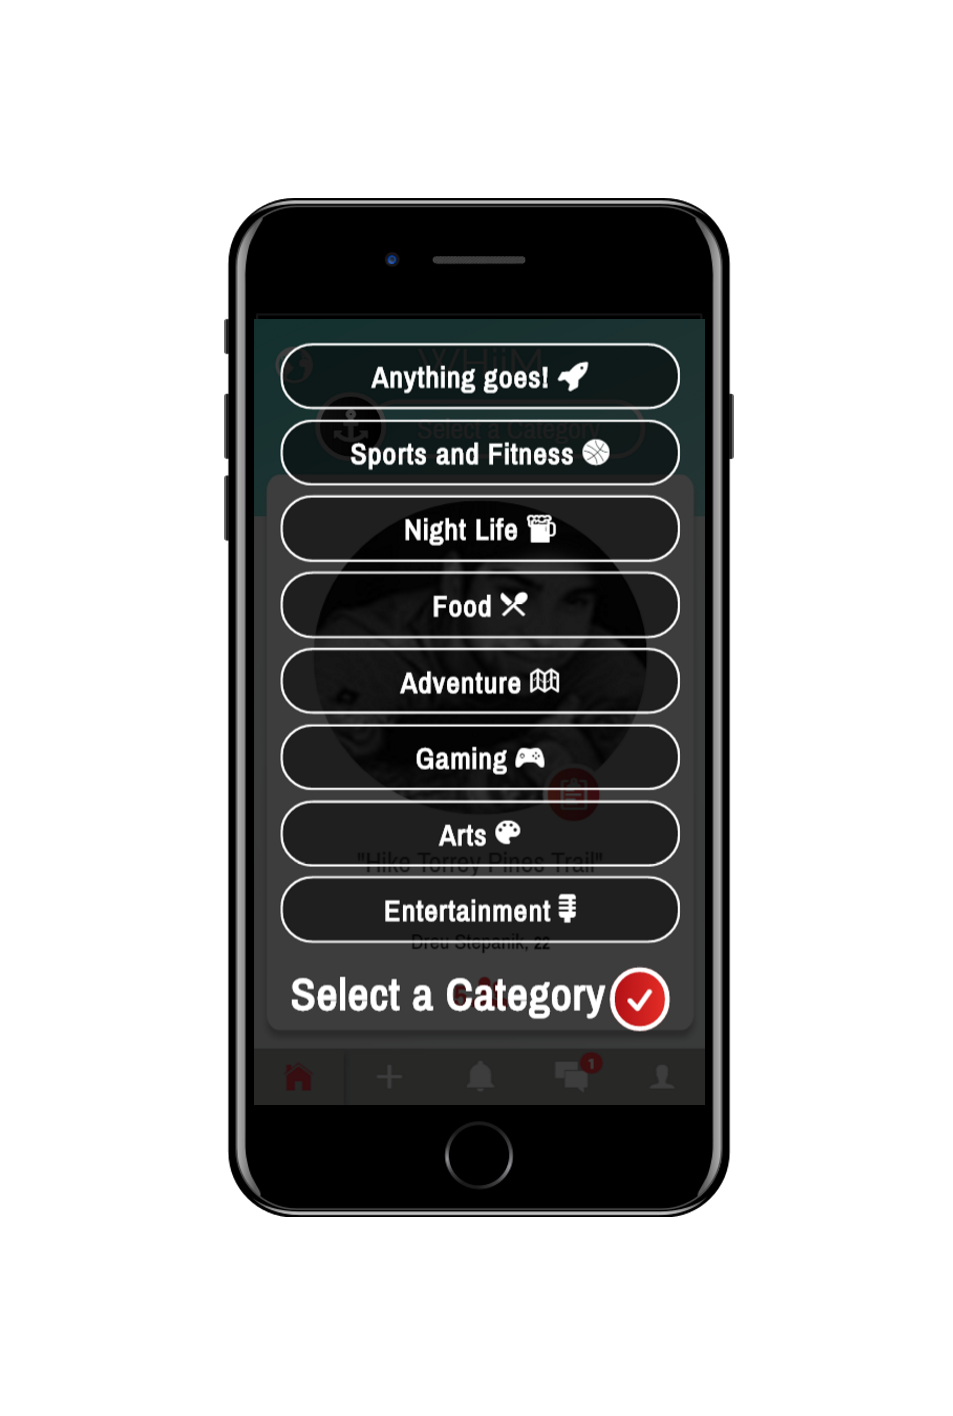
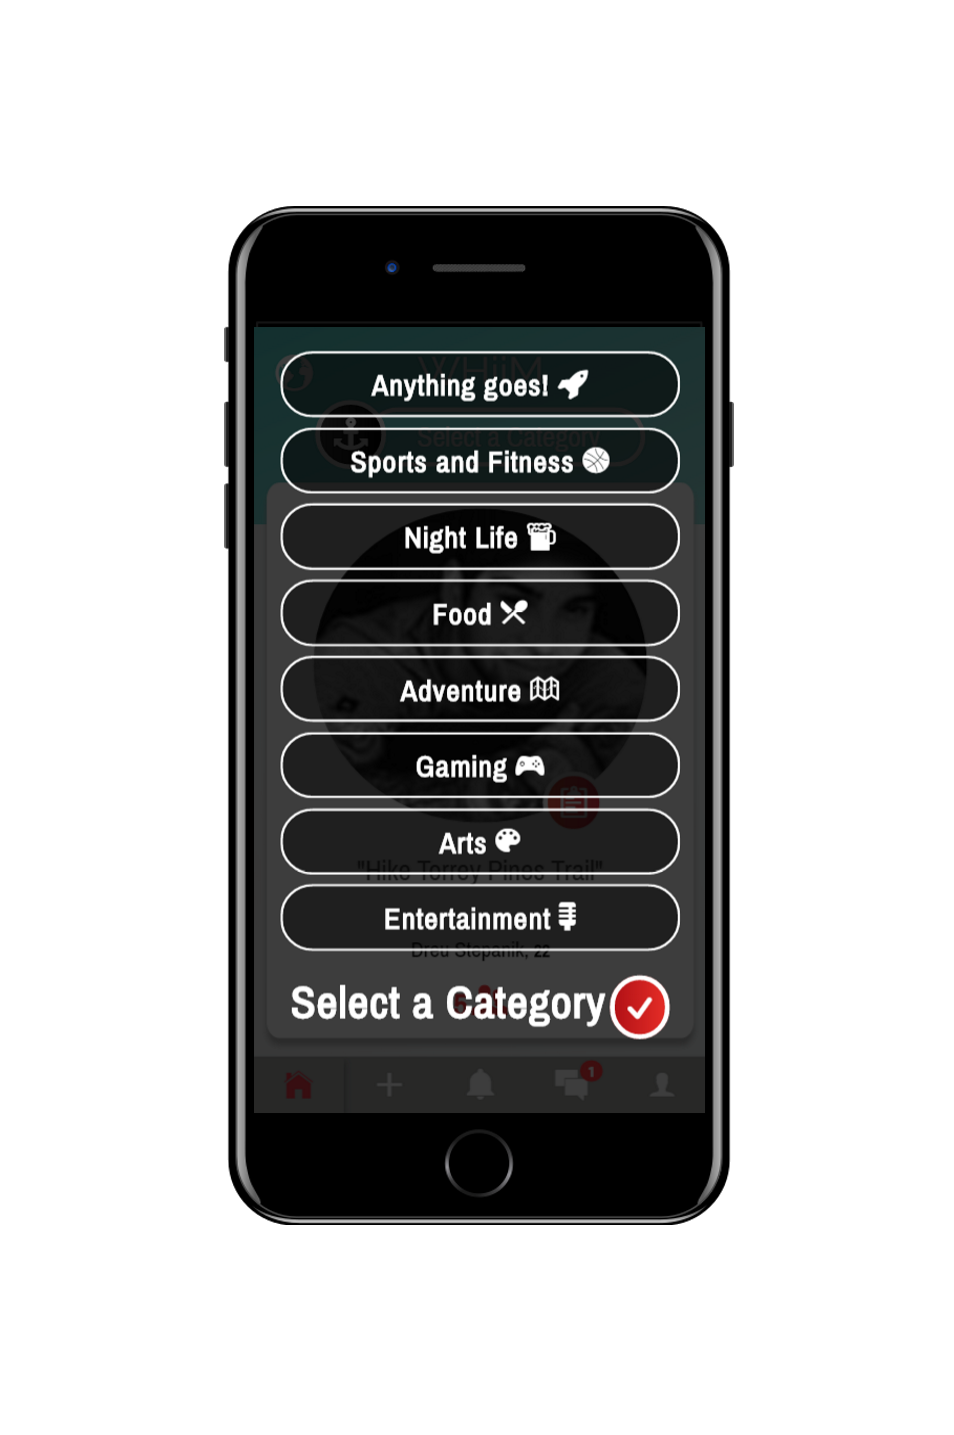
Added necessary details.

diff --git a/src/index.html b/src/index.html
@@ -107,17 +107,21 @@
 </section>
 <section class="hero is-fullheight hero-3-background">
   <div class="hero-body">
-  	<div>
+  <div class="columns">
+  	<div class="column is-half">
     	<img id="hero-3-select-phone" src="/img/select-category-white.png" alt="Logo">
     </div>
-    <div class="container">
-      <h1 class="title">
-        Full Height title
+    <div class="column">
+    <div class="container" id="hero-3-info">
+      <h1 class="title raleway-font">
+        Select a category.
       </h1>
-      <h2 class="subtitle">
-        Full Height subtitle
+      <h2 class="subtitle raleway-font">
+        Or be spontaneous and click anything goes.
       </h2>
     </div>
+    </div>
+  </div>
   </div>
   <div class="hero-foot">
     <nav class="tabs is-boxed is-fullwidth">
@@ -125,6 +129,27 @@
       	<p id="hero-3-scroll-icon"><i class="fa fa-arrow-circle-o-down"></i></p>
       </div>
     </nav>
+  </div>
+</section>
+<section class="hero is-fullheight">
+  <div class="hero-body">
+  <div class="container">
+	  <div class="columns">
+	  	<div class="column is-half">
+		    <div class="container" id="hero-4-info">
+		      <h1 class="title raleway-font">
+		        It's Your activity..
+		      </h1>
+		      <h2 class="subtitle raleway-font">
+		        You choose who you want to let in.
+		      </h2>
+		    </div>
+		  </div>
+		  <div class="column is-half">
+		    <img id="hero-4-notification" src="/img/tile-4 notification.png" alt="Logo">	
+		  </div>
+	  </div>
+  </div>
   </div>
 </section>
 <!-- bower:js -->

diff --git a/src/css/styles.css b/src/css/styles.css
@@ -71,14 +71,17 @@
 	margin-left: 12.5%;
 }
 
+#hero-4-info,
 #hero-2-info {
 	margin-top: 50%;
 }
 
+#hero-4-info h1,
 #hero-2-info h1 {
 	font-size: 2.1em;
 }
 
+#hero-4-info h2,
 #hero-2-info h2 {
 	font-size: 1.75em;
 }
@@ -89,7 +92,9 @@
 	font-size: 3em;
 }
 
-
+/*************************************
+	Hero three on Landing Page
+*************************************/
 
 .hero-3-background {
 	background-image: url('/img/explore-hero.jpg');
@@ -102,8 +107,32 @@
 }
 
 #hero-3-select-phone {
-	max-width: 60%;
+	max-width: 81%;
 	max-height: auto;
-	margin-bottom: -9%;
-	margin-top: -4%;
+	margin-bottom: -11.5%;
+	margin-top: -5%;
+}
+
+#hero-3-info {
+	color: #fff;
+	margin-top: 50%;
+}
+
+#hero-3-info h1 {
+	color: #fff;
+	font-size: 2.1em;
+}
+
+#hero-3-info h2 {
+	color: #fff;
+	font-size: 1.75em;
+}
+
+/*************************************
+	Hero Four on Landing Page
+*************************************/
+
+#hero-4-notification {
+	max-width: 105%;
+	max-height: auto;
 }
